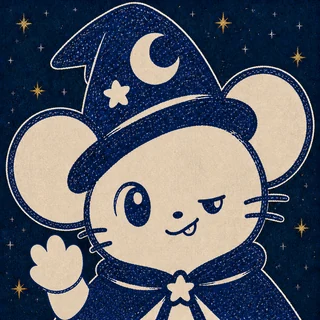
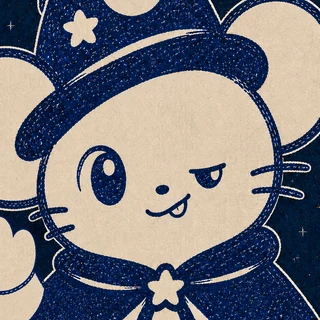
브랜드 아바타 — 자니 얼굴 줌인 크롭(320×320 webp)으로 헤더·푸터·입력 화면 로고 확대
- 원본 downloads/zanie-x-zoom-3.png(1254²)에서 얼굴·모자 챙·양쪽 귀가 원형 프레임 안에
  꽉 차게 보이도록 중심 크롭(940² → 320×320 webp, quality 88)
- 헤더(.brand__mark 36~42px)·푸터 로고·입력 화면(.input-page__jani 64~84px) 원형에서
  눈·입·수염·별 브로치까지 읽히도록 구도 조정 (이전 구도는 전신이 들어가 얼굴이 작았음)
- 파비콘·12간지 미니 아이콘·히어로 자니 카드는 그대로
- 이전 아바타는 downloads/zanie-backup/zanie-profile-v1-full-320.webp 에 보관
- npm test 255건 · npm run check:avatar(1280/390) ALL PASS

diff --git a/README.md b/README.md
@@ -110,7 +110,7 @@ darakbang-saju-web/
 │  ├─ images/attic-hero.webp  # 히어로 메인 일러스트 (3층 다락방 · 별밤 창가)
 │  ├─ images/mascot-mouse.webp # 대표 캐릭터 '자니' 전신
 │  ├─ images/zodiac/          # 12간지 캐릭터 12종 (*-cut.webp · 투명 배경)
-│  ├─ images/zanie-profile.webp # 브랜드 아바타 — 헤더·푸터 로고 · 입력 화면 상단(시크 밤하늘 자니)
+│  ├─ images/zanie-profile.webp # 브랜드 아바타 — 헤더·푸터 로고 · 입력 화면 상단(시크 밤하늘 자니 얼굴 줌인 크롭 320×320)
 │  ├─ images/mouse-face.webp  # 결과 안내 배지용 얼굴 크롭(구 캐릭터)
 │  ├─ assets/mascot-*.webp    # (구) 띠별 마스코트 — 현재 화면에서는 쓰지 않음
 │  └─ fonts/                  # Pretendard(가변) + 사이트 글자만 담은 세리프 서브셋
